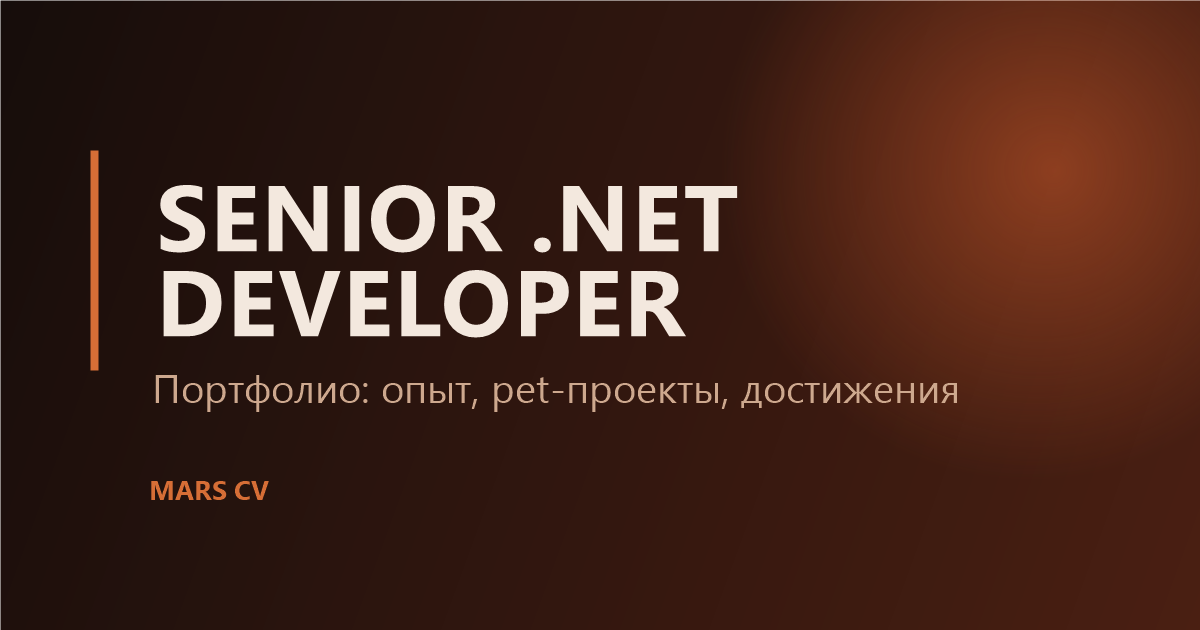
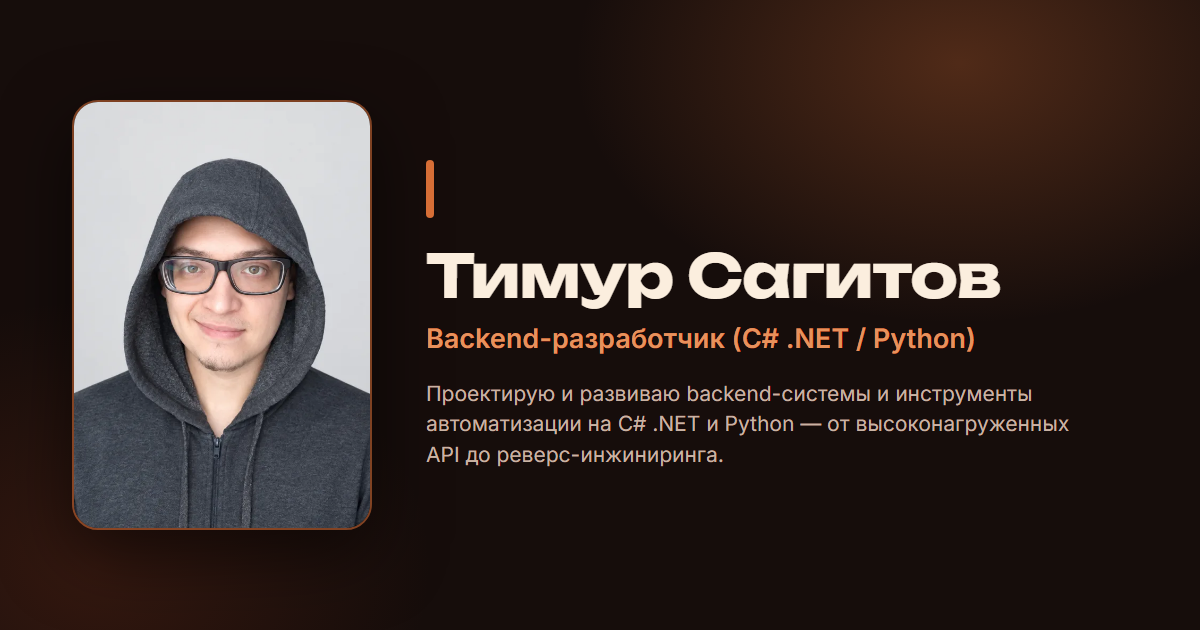
Regenerate OG preview (photo + name/role/offer); trim meta descriptions

diff --git a/wwwroot/index.html b/wwwroot/index.html
@@ -7,23 +7,18 @@
     <meta http-equiv="Content-Security-Policy"
           content="default-src 'self'; script-src 'self' 'wasm-unsafe-eval'; style-src 'self' 'unsafe-inline'; img-src 'self' data:; font-src 'self'; connect-src 'self'; base-uri 'self'; form-action 'self'; object-src 'none'" />
     <title>Backend-разработчик (C# .NET / Python) - Тимур Сагитов</title>
-    <meta name="description" content="Персональный сайт backend-разработчика (C# .NET / Python): опыт работы, достижения, pet-проекты, технологии и контакты. Полная версия резюме с hh.ru." />
+    <meta name="description" content="Персональный сайт backend-разработчика (C# .NET / Python): опыт работы, технологии и контакты." />
 
     <meta property="og:type" content="website" />
     <meta property="og:site_name" content="Тимур Сагитов" />
     <meta property="og:title" content="Backend-разработчик (C# .NET / Python) - Тимур Сагитов" />
-    <meta property="og:description" content="Опыт работы, достижения, pet-проекты и технологии backend-разработчика (C# .NET / Python). Полная версия резюме с hh.ru." />
+    <meta property="og:description" content="Опыт работы и технологии backend-разработчика (C# .NET / Python)." />
     <meta property="og:image" content="https://pharaunwizard.github.io/img/og-preview.png" />
     <meta property="og:image:width" content="1200" />
     <meta property="og:image:height" content="630" />
     <meta property="og:image:alt" content="Тимур Сагитов — Backend-разработчик (C# .NET / Python)" />
     <meta property="og:url" content="https://pharaunwizard.github.io/" />
     <meta property="og:locale" content="ru_RU" />
-
-    <meta name="twitter:card" content="summary_large_image" />
-    <meta name="twitter:title" content="Backend-разработчик (C# .NET / Python) - Тимур Сагитов" />
-    <meta name="twitter:description" content="Опыт работы, достижения, pet-проекты и технологии backend-разработчика (C# .NET / Python)." />
-    <meta name="twitter:image" content="https://pharaunwizard.github.io/img/og-preview.png" />
 
     <meta name="theme-color" content="#160d0b" />
     <base href="/" />
